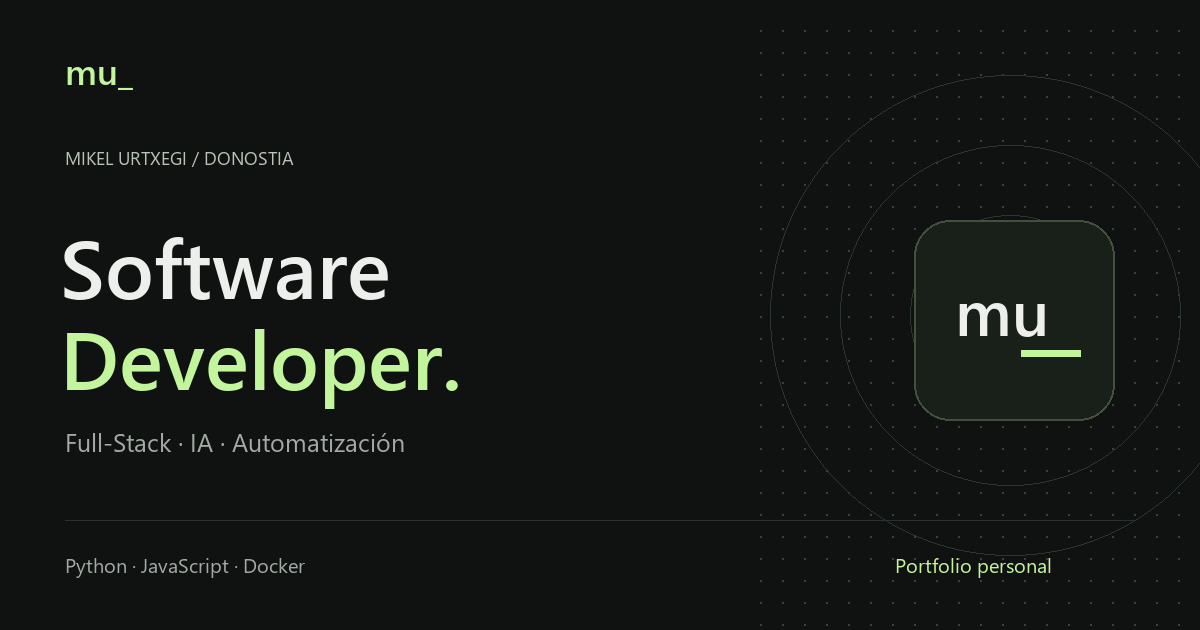
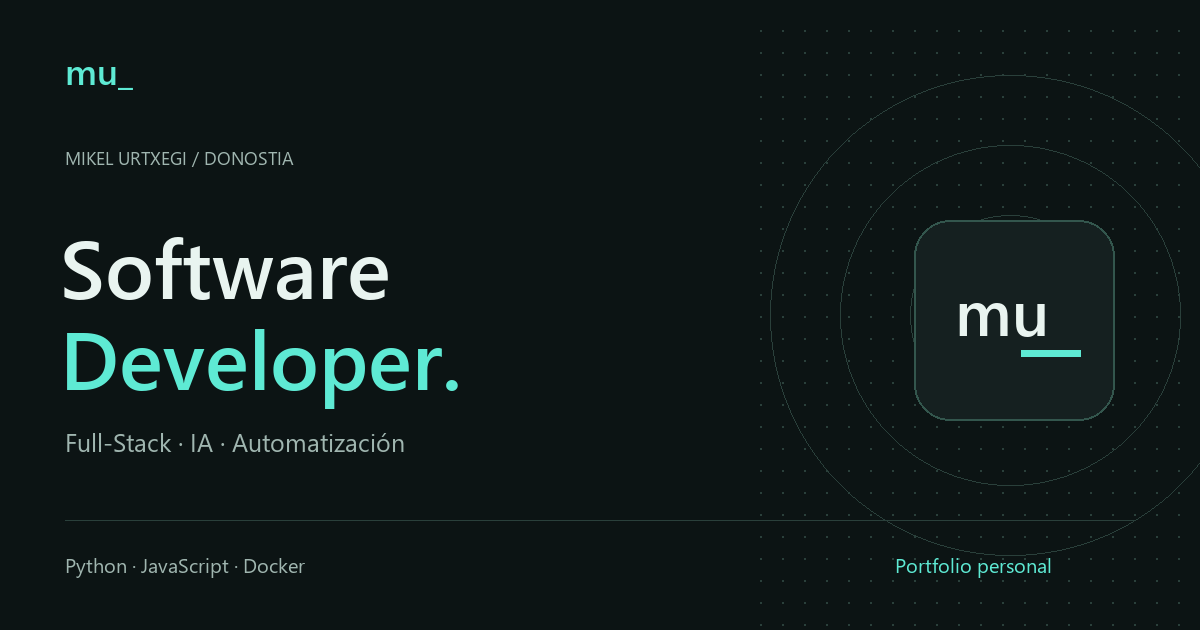
Apply mineral turquoise palette across portfolio themes and assets

diff --git a/src/styles.css b/src/styles.css
@@ -25,35 +25,35 @@
 
 :root {
   font-family: "DM Sans Variable", sans-serif;
-  color: #ecefeb;
-  background: #101211;
+  color: #e9f4f0;
+  background: #0c1414;
   line-height: 1.5;
   font-synthesis: none;
   text-rendering: optimizeLegibility;
   -webkit-font-smoothing: antialiased;
-  --bg: #101211;
-  --surface: #171a18;
-  --raised: #1c201d;
-  --text: #ecefeb;
-  --muted: #a2aaa3;
-  --dim: #88948b;
-  --border: #2b322d;
-  --accent: #c3f59c;
-  --accent-ink: #15220d;
-  --header: rgba(16, 18, 17, 0.92);
+  --bg: #0c1414;
+  --surface: #152020;
+  --raised: #1b2b29;
+  --text: #e9f4f0;
+  --muted: #a0b6b0;
+  --dim: #89a7a0;
+  --border: #2a403b;
+  --accent: #5eead4;
+  --accent-ink: #08251f;
+  --header: rgba(12, 20, 20, 0.92);
   color-scheme: dark;
 }
 :root[data-theme="light"] {
-  --bg: #f6f7f2;
-  --surface: #eef0e9;
-  --raised: #e7ebe1;
-  --text: #202820;
-  --muted: #566252;
-  --dim: #5b6956;
-  --border: #cdd5c8;
-  --accent: #426b26;
+  --bg: #f1f8f7;
+  --surface: #e7f1ef;
+  --raised: #ddebe8;
+  --text: #12302b;
+  --muted: #4e6964;
+  --dim: #526f68;
+  --border: #c5dbd5;
+  --accent: #0d7663;
   --accent-ink: #fff;
-  --header: rgba(246, 247, 242, 0.94);
+  --header: rgba(241, 248, 247, 0.94);
   color-scheme: light;
   color: var(--text);
   background: var(--bg);
@@ -454,22 +454,22 @@ ul {
 .build-card {
   width: 390px;
   max-width: 88%;
-  background: #171b18;
-  border: 1px solid #3b493b;
+  background: #122421;
+  border: 1px solid #33564d;
   border-radius: 10px;
   box-shadow: 0 24px 65px #0005;
   transform: rotate(-4deg);
-  color: #e2e9df;
+  color: #dceee8;
   animation: enter-card 0.8s ease-out both;
 }
 .build-card-top {
   display: flex;
   justify-content: space-between;
   align-items: center;
-  border-bottom: 1px solid #2c342e;
+  border-bottom: 1px solid #28443c;
   padding: 15px 18px;
   font-size: 10px;
-  color: #a0aba2;
+  color: #a1beb4;
 }
 .build-card-top > span:first-child {
   display: flex;
@@ -478,11 +478,11 @@ ul {
 .build-card-top > span:first-child > span {
   height: 6px;
   width: 6px;
-  background: #465049;
+  background: #3c5a52;
   border-radius: 50%;
 }
 .build-card-top > span:first-child > span:first-child {
-  background: #a6c28d;
+  background: #74c8b5;
 }
 .build-card-content {
   padding: 25px 22px 29px;
@@ -490,14 +490,14 @@ ul {
   line-height: 2.4;
 }
 .code-comment {
-  color: #98a399;
+  color: #9db9ae;
   font-size: 9px;
 }
 .code-purple {
-  color: #c2b4e8;
+  color: #97cedd;
 }
 .code-string {
-  color: #c3f59c;
+  color: #5eead4;
 }
 .code-spacer {
   height: 11px;
@@ -506,16 +506,16 @@ ul {
   width: 6px;
   height: 12px;
   display: inline-block;
-  background: #c3f59c;
+  background: #5eead4;
   vertical-align: middle;
   margin-left: 6px;
 }
 .build-card-footer {
   display: flex;
   justify-content: space-between;
-  border-top: 1px solid #2c342e;
+  border-top: 1px solid #28443c;
   padding: 12px 18px;
-  color: #a5b69e;
+  color: #9ebeb1;
   font-size: 9px;
 }
 .build-card-footer > span {
@@ -524,7 +524,7 @@ ul {
   gap: 6px;
 }
 .build-card .status-dot {
-  background: #c3f59c;
+  background: #5eead4;
 }
 .shipping-label {
   position: absolute;
@@ -768,7 +768,7 @@ ul {
 .featured-media {
   display: flex;
   flex-direction: column;
-  background: #1d251f;
+  background: #142c27;
   border-left: 1px solid var(--border);
   overflow: hidden;
 }
@@ -776,7 +776,7 @@ ul {
   display: flex;
   justify-content: space-between;
   align-items: center;
-  color: #bbc9b8;
+  color: #b0d3c5;
   padding: 20px 24px;
   border-bottom: 1px solid #ffffff0d;
   font-size: 9px;
@@ -788,7 +788,7 @@ ul {
   gap: 7px;
 }
 .media-top .status-dot {
-  background: #c3f59c;
+  background: #5eead4;
 }
 .media-top a {
   padding: 5px;
@@ -813,7 +813,7 @@ ul {
   max-width: none;
   width: 690px;
   height: auto;
-  border: 5px solid #38443a;
+  border: 5px solid #315248;
   border-radius: 9px;
   box-shadow: 0 22px 60px #0007;
   transform: perspective(1400px) rotateY(-9deg) rotateZ(2deg);
@@ -826,7 +826,7 @@ ul {
   gap: 14px;
   padding: 19px 24px;
   font-size: 7px;
-  color: #bac8b7;
+  color: #b2d1c5;
   border-top: 1px solid #ffffff0d;
 }
 .media-caption > span:last-child {
@@ -860,7 +860,7 @@ ul {
   overflow: hidden;
   border-bottom: 1px solid var(--border);
   padding: 22px 26px;
-  color: #c5d8bc;
+  color: #b8ddce;
 }
 .art-label,
 .concept-label {
@@ -881,7 +881,7 @@ ul {
   letter-spacing: 0.6px;
 }
 .art-kitchen {
-  background: #263028;
+  background: #18352d;
 }
 .recipe-art {
   position: absolute;
@@ -928,8 +928,8 @@ ul {
   top: 105%;
 }
 .art-layers {
-  background: #24272e;
-  color: #c2c6df;
+  background: #1a2e33;
+  color: #b5d5db;
 }
 .layers-art {
   position: absolute;
@@ -942,8 +942,8 @@ ul {
   display: flex;
   align-items: center;
   gap: 20px;
-  border: 1px solid #7b81924d;
-  background: #2c3039;
+  border: 1px solid #7da5a34d;
+  background: #244047;
   box-shadow: 0 6px 12px #0003;
   border-radius: 5px;
   padding: 13px 18px;
@@ -955,8 +955,8 @@ ul {
   flex: 1;
 }
 .art-wood {
-  background: #302c26;
-  color: #dbc9ad;
+  background: #20302f;
+  color: #b4d6cd;
 }
 .wood-art {
   display: flex;
@@ -985,8 +985,8 @@ ul {
     ellipse at 90% 0,
     transparent,
     transparent 17px,
-    #d2b88b0c 18px,
-    #d2b88b0c 19px,
+    #8ec7bc0c 18px,
+    #8ec7bc0c 19px,
     transparent 20px
   );
   transform: rotate(-20deg);
@@ -2275,8 +2275,8 @@ ul {
 }
 
 .art-bike {
-  background: #243332;
-  color: #b7d7c8;
+  background: #183935;
+  color: #a4e2d2;
   background-image: repeating-linear-gradient(
     150deg,
     transparent,

diff --git a/index.html b/index.html
@@ -11,7 +11,7 @@
       name="description"
       content="Portfolio de Mikel Urtxegi, Junior Software Developer en PKF Attest, Donostia. Información sobre mis proyectos, tecnologías, experiencia y formación."
     />
-    <meta name="theme-color" content="#101211" />
+    <meta name="theme-color" content="#0c1414" />
     <meta name="author" content="Mikel Urtxegi García" />
     <link rel="canonical" href="__SITE_URL__" />
     <meta property="og:type" content="website" />
